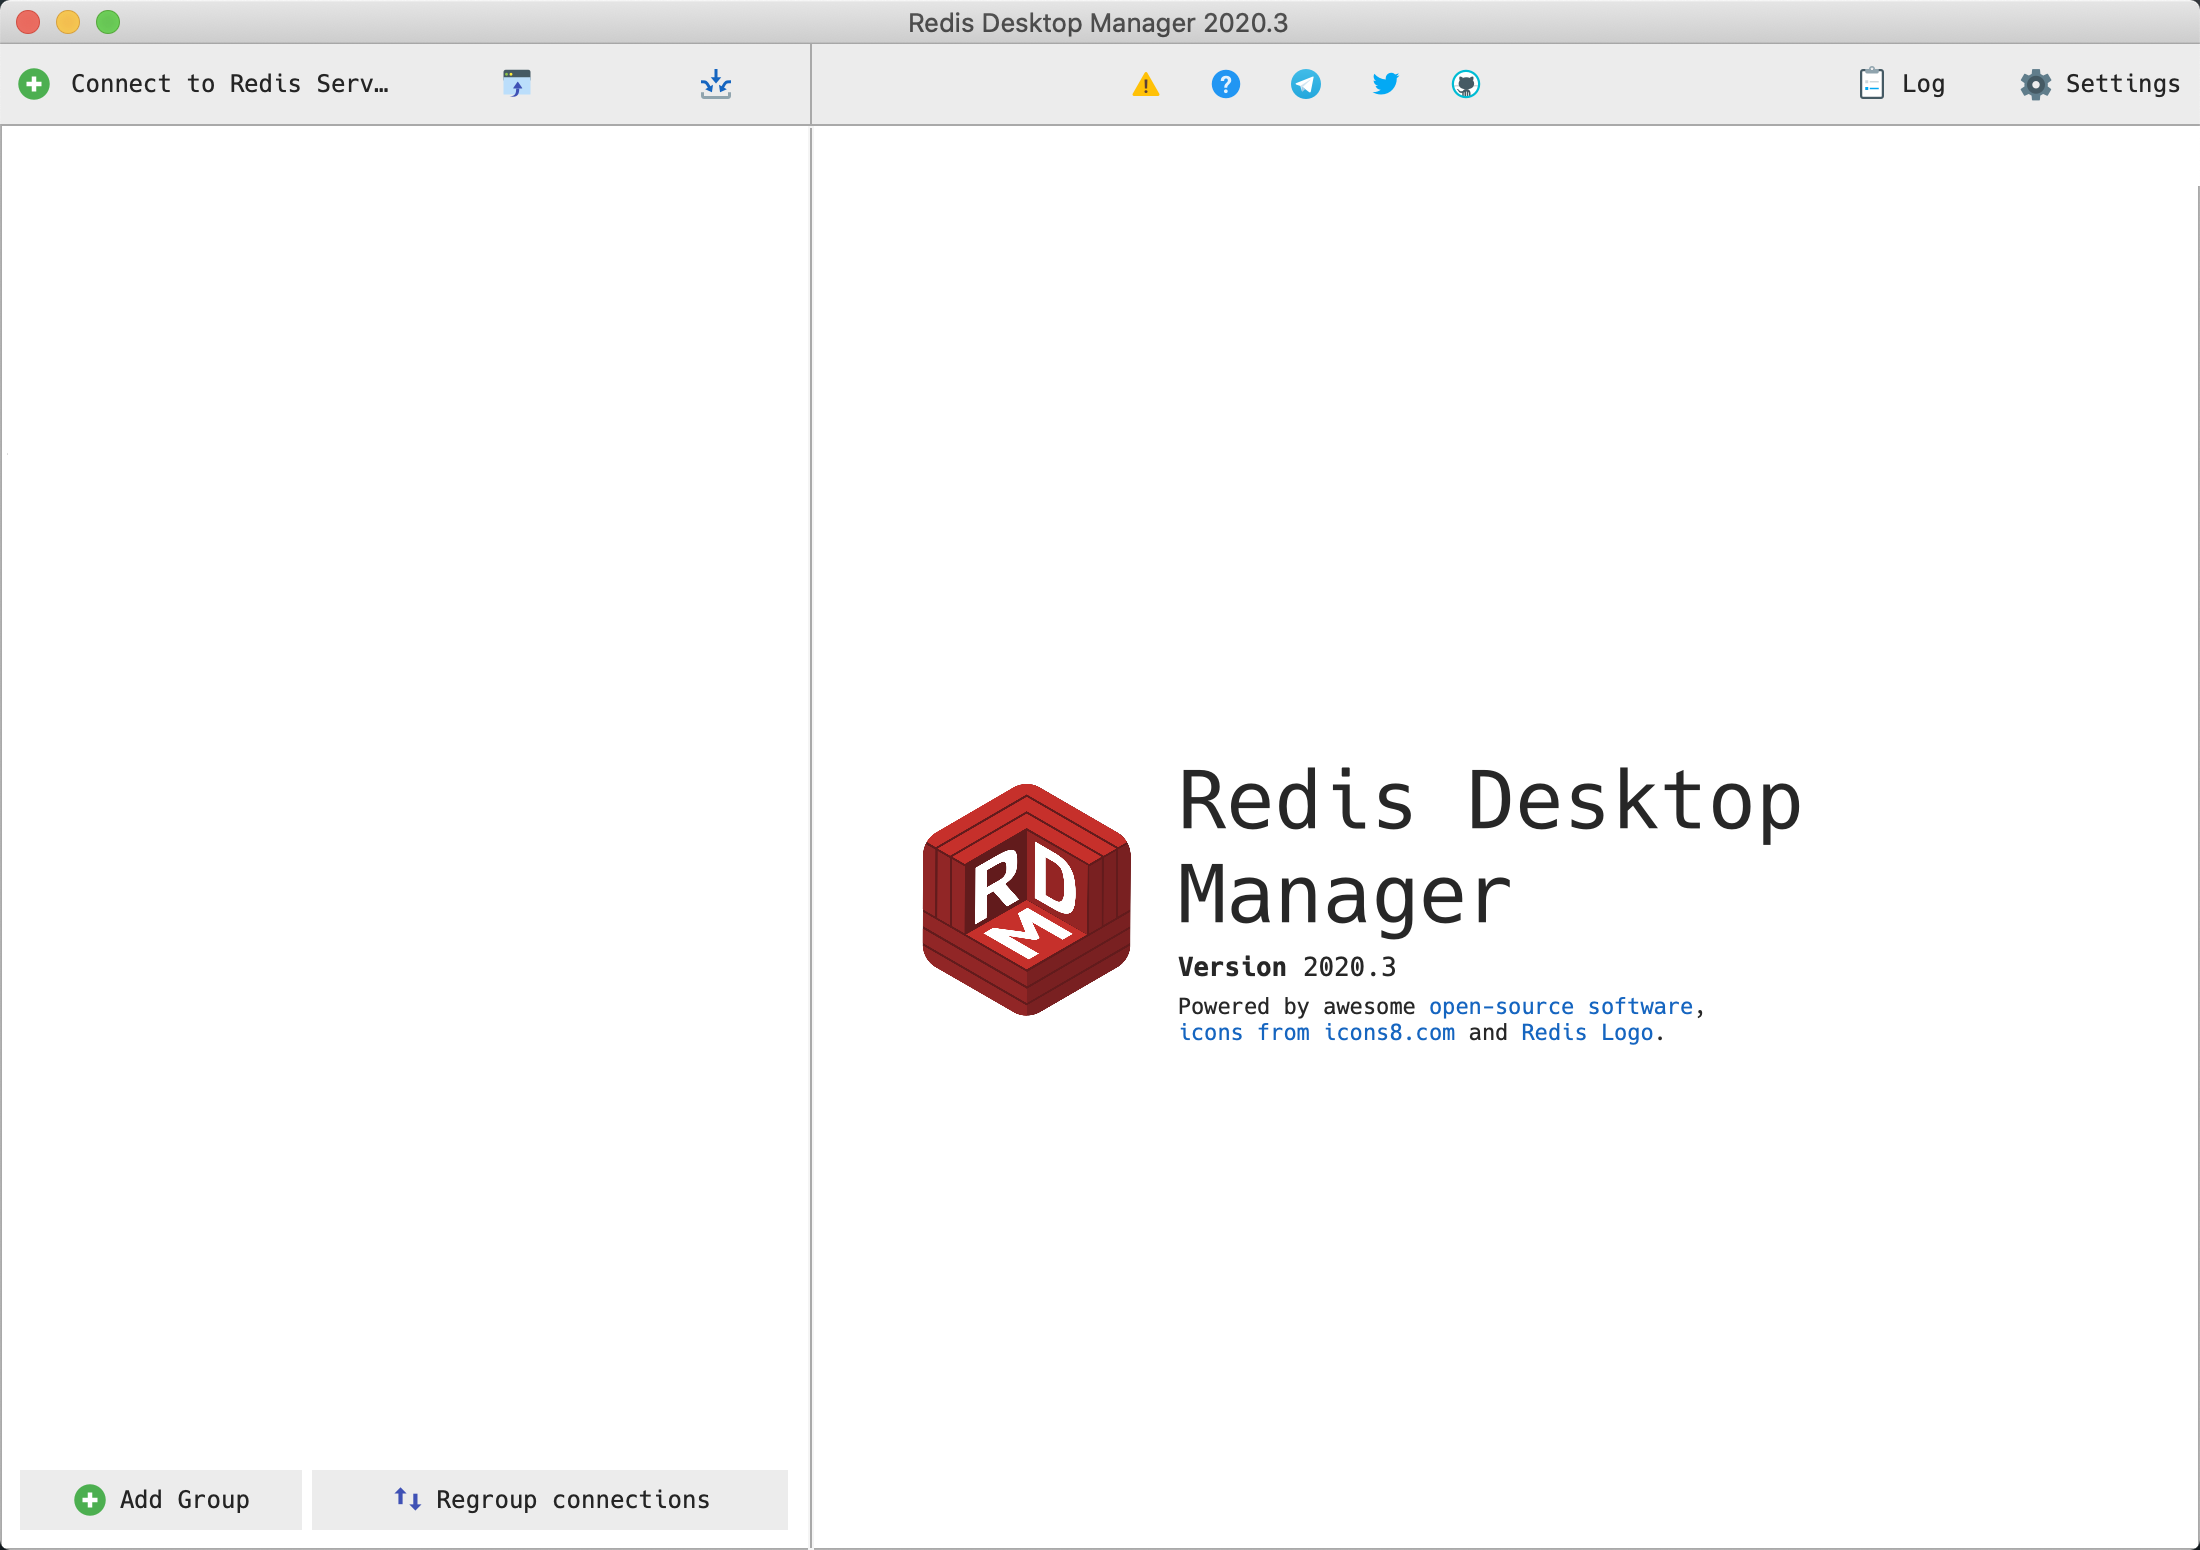
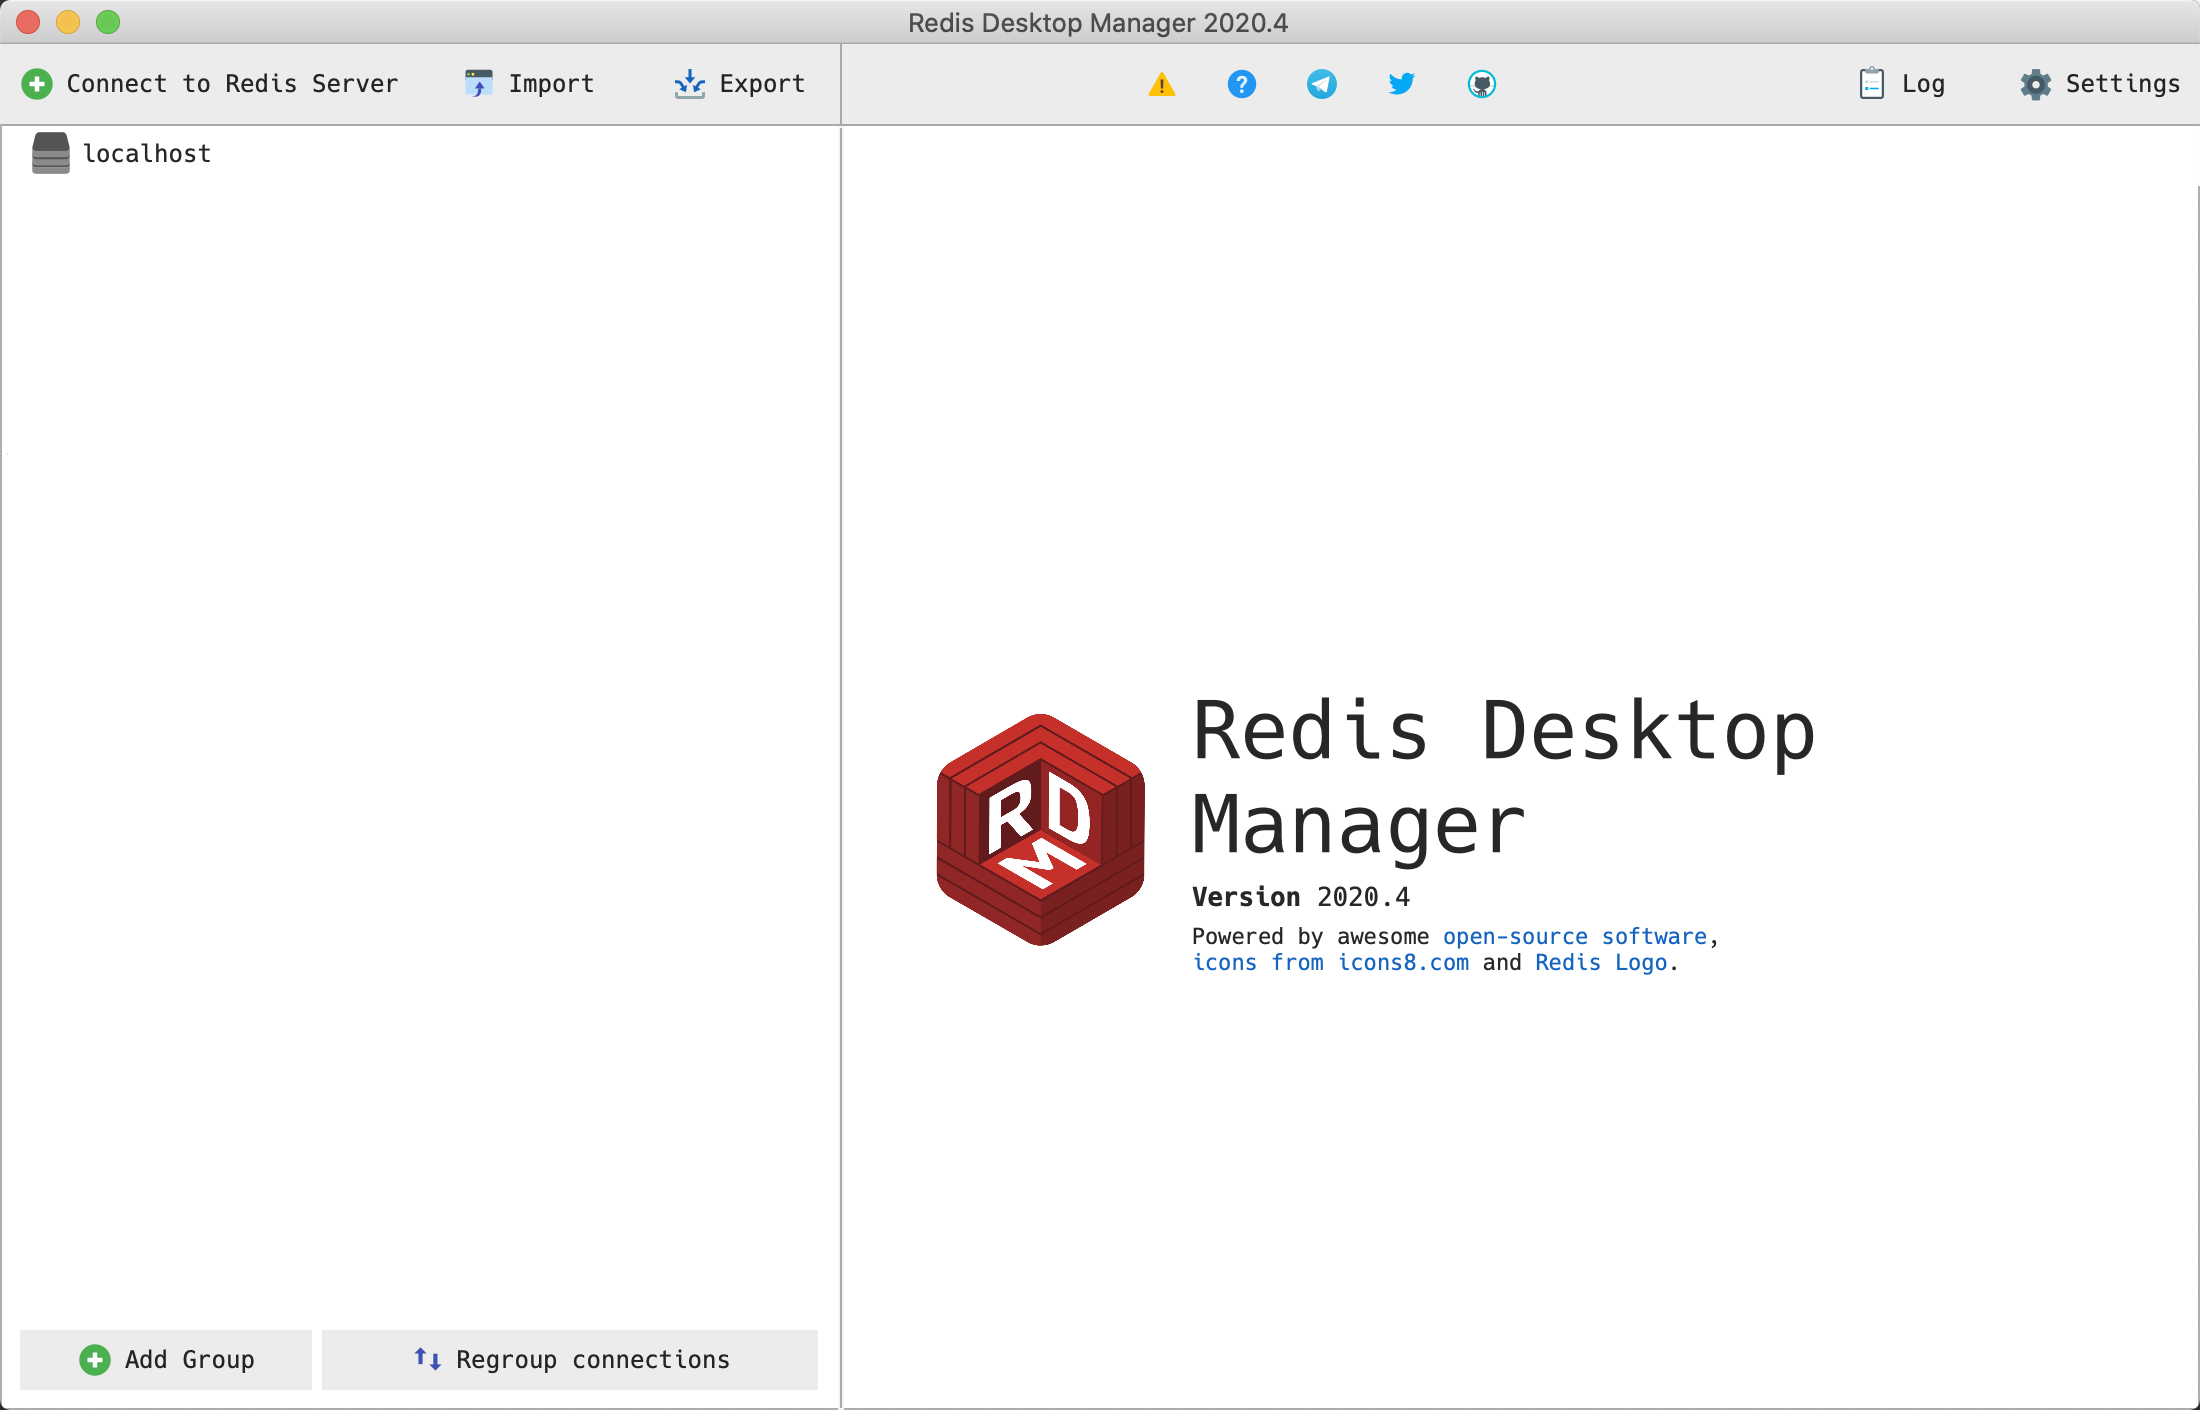
update to 2020.4

diff --git a/README.md b/README.md
@@ -2,7 +2,9 @@
 
 This repository provides a shell can compile [RedisDesktopManager](https://github.com/uglide/RedisDesktopManager), as well as a compiled DMG file.
 
-Latest version: 2020.3
+Latest version: 2020.4
+
+> build on tag 2020.4 with cherry picked commit [6a635b6](https://github.com/uglide/RedisDesktopManager/commit/6a635b624c2a24c98b973b7c1e7729b4d8c98976).
 
 ![screenshots](https://raw.githubusercontent.com/zgr0629/RedisDesktopManager-Mac/master/screenshots.png)
 
